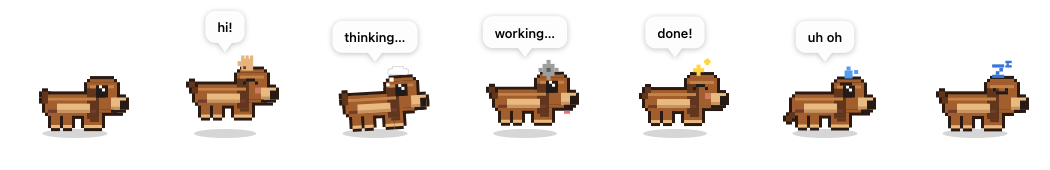
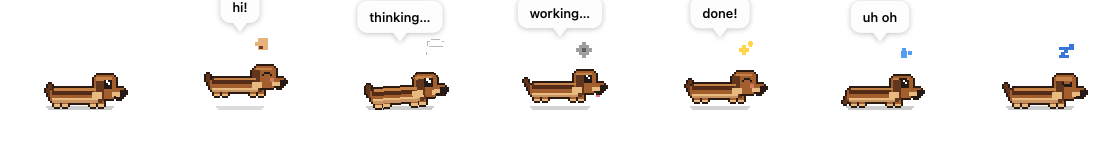
feat(pet): true dachshund silhouette + grounded contact shadow
Make the sprite read unmistakably as a dachshund, and stop it looking like
it floats.

Art:
- Long low body, tiny stubby legs, long tapering snout, big floppy ear and a
  held-up tail — the sausage-dog silhouette instead of a generic dog.
- Dark saddle marking wrapping the back over the chestnut coat, tan belly and
  chest — a three-tone dachshund.
- Livelier animation: bigger tail wag and an ear flap that speeds up when the
  dog is excited.

Shadow:
- Replace the soft floating ellipse with a crisp, cell-aligned pixel contact
  shadow hugging the paws on the ground line. It shrinks and fades as the dog
  bounces, so a hop reads as leaving the ground rather than perpetual floating.

Regenerated assets/preview.png. All pixels stay integer-snapped and crisp.

Copilot-Session: 7ac0f405-cb36-420f-802a-713e05ccbcd8

diff --git a/pet.swift b/pet.swift
@@ -112,11 +112,19 @@ final class PetView: NSView {
         let cx = bounds.midX
         let cy = groundY + petSize * 0.5 + pose.bob
 
-        // Ground shadow
-        let shadowW = petSize * 1.05 * (1 - pose.bob / 220)
+        // Contact shadow — a crisp pixel oval hugging the paws on the ground
+        // line. It shrinks and fades as the dog bounces up, so a jump reads as
+        // leaving the ground rather than the whole dog floating.
+        let scell = max(2, (petSize / 26).rounded())
+        let ground = (groundY + petSize * 0.5 + (-0.44 * petSize).rounded()).rounded()
+        let shrink = max(0.5, 1 - pose.bob / 34)
+        let halfW = (petSize * 0.55 * shrink / scell).rounded() * scell
         ctx.saveGState()
-        ctx.setFillColor(NSColor(white: 0, alpha: 0.16).cgColor)
-        ctx.fillEllipse(in: CGRect(x: cx - shadowW / 2, y: groundY - 8, width: shadowW, height: 9))
+        ctx.setShouldAntialias(false)
+        ctx.setFillColor(NSColor(white: 0, alpha: 0.20 * shrink).cgColor)
+        ctx.fill(CGRect(x: (cx - halfW).rounded(), y: ground - scell, width: halfW * 2, height: scell))
+        ctx.fill(CGRect(x: (cx - halfW + scell).rounded(), y: ground - scell * 2,
+                        width: (halfW - scell) * 2, height: scell))
         ctx.restoreGState()
 
         // Pet body — crisp pixels: anti-aliasing off, origin snapped to whole
@@ -161,13 +169,15 @@ final class PetView: NSView {
     private static let cEye      = NSColor(red: 0.13, green: 0.10, blue: 0.10, alpha: 1)
     private static let cTongue   = NSColor(red: 0.92, green: 0.44, blue: 0.47, alpha: 1)
     private static let cCheek    = NSColor(red: 0.95, green: 0.58, blue: 0.52, alpha: 0.55)
+    private static let cSaddle   = NSColor(red: 0.33, green: 0.17, blue: 0.09, alpha: 1) // dark back marking
 
     /// Draws a chibi pixel-art dachshund centred at the origin, facing right.
+    /// Long low body, tiny legs, long snout, floppy ears — the sausage-dog look.
     /// Whole-cell coordinates; y counts up from the feet. A dark outline pass
     /// (silhouette offset in 4 directions) keeps it readable on any wallpaper.
     private func drawDachshundPixel(size s: CGFloat, feat: DogFeatures, phase: Double) {
-        let cell = max(2, (s / 24).rounded())
-        let footY = (-0.46 * s).rounded()
+        let cell = max(2, (s / 26).rounded())
+        let footY = (-0.44 * s).rounded()
 
         func box(_ cx: Int, _ cy: Int, _ w: Int, _ h: Int, _ color: NSColor) {
             color.setFill()
@@ -175,31 +185,37 @@ final class PetView: NSView {
                                       width: CGFloat(w) * cell, height: CGFloat(h) * cell)).fill()
         }
 
-        let wo = feat.wag > 0 ? Int((sin(phase * feat.wag) * 1.6).rounded()) : 0
+        // Animated offsets: tail wags, ear flaps (faster when excited).
+        let wag = feat.wag > 0 ? Int((sin(phase * feat.wag) * 1.8).rounded()) : 0
+        let ear = Int((sin(phase * (feat.wag > 6 ? 7 : 2.6)) * 1).rounded())
 
         // Solid silhouette parts — reused for the dark outline pass and the fill.
         func solids(_ dx: Int, _ dy: Int, _ flat: NSColor?) {
             func p(_ x: Int, _ y: Int, _ w: Int, _ h: Int, _ real: NSColor) {
                 box(x + dx, y + dy, w, h, flat ?? real)
             }
-            // Body (rounded sausage)
-            p(-10, 5, 18, 5, PetView.cBody)
-            p(-9, 10, 16, 1, PetView.cBody); p(-9, 4, 16, 1, PetView.cBody)
-            // Legs (stubby)
-            for lx in [-8, -4, 3, 6] { p(lx, 0, 3, 5, PetView.cBody) }
-            // Head (big & round — chibi)
-            p(4, 6, 10, 9, PetView.cBody)
-            p(5, 15, 8, 1, PetView.cBody); p(5, 5, 8, 1, PetView.cBody)
-            // Ear (big floppy, droops past the jaw)
-            p(4, 3, 4, 10, PetView.cDark); p(5, 2, 3, 1, PetView.cDark)
-            // Muzzle
-            p(12, 6, 5, 4, PetView.cTan); p(16, 7, 1, 2, PetView.cTan)
-            // Tail
+            // Tail — long & tapering, held up off the rump (wags side to side)
             if feat.tailDown {
-                p(-11, 3, 2, 2, PetView.cDark); p(-12, 2, 2, 2, PetView.cDark)
+                p(-16, 2, 2, 3, PetView.cDark); p(-17, 1, 2, 2, PetView.cDark)
             } else {
-                p(-11, 8, 2, 2, PetView.cDark); p(-12 + wo, 10, 2, 2, PetView.cDark)
+                p(-16, 5, 2, 2, PetView.cDark)
+                p(-17, 7, 2, 2, PetView.cDark)
+                p(-18 + wag, 9, 2, 2, PetView.cDark)     // curled tip
             }
+            // Legs — very short & stubby (the dachshund signature)
+            for lx in [-13, -9, 5, 9] { p(lx, 0, 3, 3, PetView.cBody) }
+            // Body — long, low sausage
+            p(-15, 3, 25, 5, PetView.cBody)
+            p(-14, 8, 23, 1, PetView.cBody)              // rounded topline
+            p(-14, 2, 23, 1, PetView.cBody)              // rounded underline
+            // Head — big round chibi at the right end
+            p(7, 5, 11, 9, PetView.cBody)
+            p(8, 14, 9, 1, PetView.cBody); p(8, 4, 9, 1, PetView.cBody)
+            // Long snout tapering out to the right
+            p(16, 5, 6, 4, PetView.cBody)
+            p(21, 6, 2, 2, PetView.cBody)
+            // Ear — long & floppy, hangs down the cheek (sways)
+            p(7 + ear, 3, 4, 10, PetView.cDark); p(8, 2, 3, 1, PetView.cDark)
         }
 
         // 1) dark outline
@@ -207,53 +223,53 @@ final class PetView: NSView {
         // 2) flat fill
         solids(0, 0, nil)
 
-        // 3) shading + details (fill only)
-        box(-9, 9, 16, 1, PetView.cBodyHi)          // warm back highlight (top light)
-        box(5, 13, 8, 1, PetView.cBodyHi)           // head highlight
-        // Tan underside: a two-tone dachshund — belly along the bottom of the
-        // body plus a chest patch under the neck, not a floating mid-body bar.
-        box(-8, 5, 15, 2, PetView.cTan)             // belly (bottom rows, wide)
-        box(2, 6, 5, 3, PetView.cTan)               // chest under the head
-        box(-8, 5, 15, 1, PetView.cTanShade)        // shadow at the very bottom edge
-        for lx in [-8, -4, 3, 6] { box(lx, 0, 3, 1, PetView.cTan) }   // paws
-        box(12, 6, 5, 1, PetView.cTanShade)         // muzzle underside
-        box(15, 6, 2, 3, PetView.cNose)             // nose
-        if feat.eyes == .happy { box(10, 8, 2, 2, PetView.cCheek) }   // blush when delighted
+        // 3) two-tone markings + shading (fill only, top-left light)
+        box(-14, 6, 21, 3, PetView.cSaddle)         // dark saddle wraps the back
+        box(-13, 8, 21, 1, PetView.cBodyHi)         // warm topline highlight
+        box(8, 13, 8, 1, PetView.cBodyHi)           // head highlight
+        // Tan underside: belly along the bottom + chest under the neck.
+        box(-14, 2, 23, 2, PetView.cTan)            // belly (bottom rows, long)
+        box(6, 4, 5, 3, PetView.cTan)               // chest under the head
+        box(16, 5, 6, 2, PetView.cTan)              // tan under the snout
+        box(-14, 2, 23, 1, PetView.cTanShade)       // shadow at the very bottom edge
+        for lx in [-13, -9, 5, 9] { box(lx, 0, 3, 1, PetView.cTan) }   // paws
+        box(20, 5, 3, 3, PetView.cNose)             // nose at the snout tip
+        if feat.eyes == .happy { box(15, 7, 2, 2, PetView.cCheek) }    // blush when delighted
 
         drawEye(feat.eyes, box: box, phase: phase)
         drawMouth(feat.mouth, box: box, phase: phase)
     }
 
     private func drawEye(_ e: EyeState, box: (Int, Int, Int, Int, NSColor) -> Void, phase: Double) {
-        let blink = e == .open && fmod(phase, 3.6) < 0.13
+        let blink = e == .open && fmod(phase, 3.4) < 0.12
         switch e {
         case .open, .worried:
-            if blink { box(7, 11, 4, 1, PetView.cEye); return }
-            box(7, 10, 4, 4, PetView.cOutline)          // eye rim
-            box(7, 10, 3, 3, PetView.cEye)              // big round eye
-            box(9, 12, 1, 1, .white); box(8, 13, 1, 1, .white)  // catchlight sparkle
-            if e == .worried { box(6, 14, 4, 1, PetView.cOutline) }   // raised brow
+            if blink { box(12, 10, 4, 1, PetView.cEye); return }
+            box(12, 9, 4, 4, PetView.cOutline)          // eye rim
+            box(12, 9, 3, 3, PetView.cEye)              // big round eye
+            box(14, 11, 1, 1, .white); box(13, 12, 1, 1, .white)  // catchlight sparkle
+            if e == .worried { box(11, 13, 4, 1, PetView.cOutline) }   // raised brow
         case .closed:
-            box(7, 11, 4, 1, PetView.cEye)              // content lids
-            box(6, 12, 1, 1, PetView.cEye); box(10, 12, 1, 1, PetView.cEye)
+            box(12, 10, 4, 1, PetView.cEye)             // content lids
+            box(11, 11, 1, 1, PetView.cEye); box(15, 11, 1, 1, PetView.cEye)
         case .happy:
-            box(6, 11, 1, 1, PetView.cEye); box(7, 12, 1, 1, PetView.cEye)   // ^_^ arc
-            box(9, 12, 1, 1, PetView.cEye); box(10, 11, 1, 1, PetView.cEye)
-            box(8, 12, 1, 1, PetView.cEye)
+            box(11, 10, 1, 1, PetView.cEye); box(12, 11, 1, 1, PetView.cEye)   // ^_^ arc
+            box(14, 11, 1, 1, PetView.cEye); box(15, 10, 1, 1, PetView.cEye)
+            box(13, 11, 1, 1, PetView.cEye)
         }
     }
 
     private func drawMouth(_ m: MouthState, box: (Int, Int, Int, Int, NSColor) -> Void, phase: Double) {
         switch m {
         case .neutral:
-            box(13, 5, 3, 1, PetView.cNose)
+            box(18, 4, 2, 1, PetView.cNose)
         case .smile:
-            box(12, 5, 1, 1, PetView.cNose); box(13, 4, 3, 1, PetView.cNose)
+            box(17, 4, 1, 1, PetView.cNose); box(18, 3, 3, 1, PetView.cNose)
         case .pant, .open:
-            box(13, 4, 3, 2, PetView.cNose)
+            box(18, 3, 3, 2, PetView.cNose)
             if m == .pant {
                 let drop = Int((sin(phase * 8) * 0.5 + 0.5).rounded())
-                box(13, 3 - drop, 2, 1 + drop, PetView.cTongue)
+                box(18, 2 - drop, 2, 1 + drop, PetView.cTongue)
             }
         }
     }